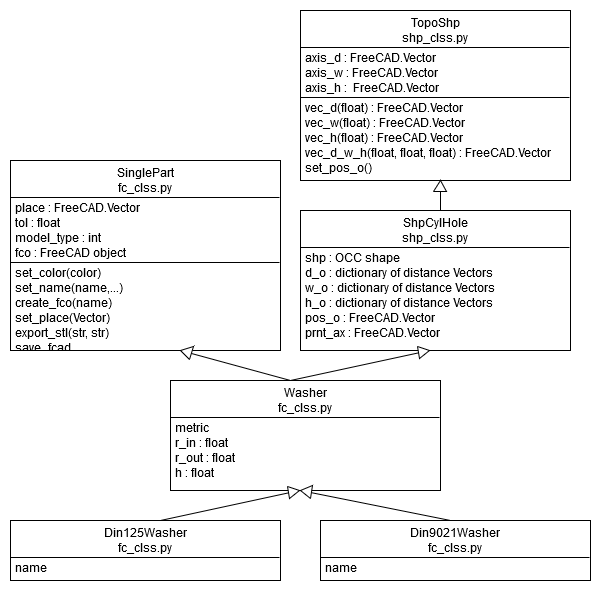
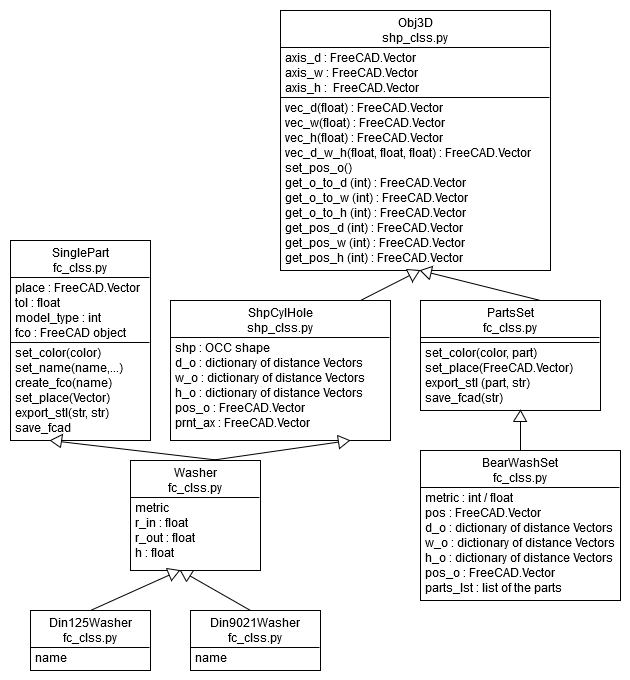
Change name of class: from TopoShp to Obj3D

Changed region(s): [[0.0, 0.0, 0.99, 1.0], [0.54, 0.9458, 0.6, 0.9763]]

diff --git a/shp_clss.py b/shp_clss.py
@@ -1,5 +1,5 @@
 # ----------------------------------------------------------------------------
-# -- TopoShp class and children
+# -- Obj3D class and children
 # ----------------------------------------------------------------------------
 # -- (c) Felipe Machado
 # -- Area of Electronic Technology. Rey Juan Carlos University (urjc.es)
@@ -35,18 +35,24 @@ logging.basicConfig(level=logging.DEBUG)
 logger = logging.getLogger(__name__)
 
 
-class TopoShp (object):
-    """ This a the object that contains an OpenCasCade Topological Shape
-    https://www.freecadweb.org/wiki/Part_Module#Explaining_the_concepts
+class Obj3D (object):
+    """ This is the the basic class, that provides reference axes and 
+    methods to get positions
 
-    It is created because it contains methods and attributes to operate with it
-    The class SinglePart is a child of this one, because they also contain a
-    an OpenCasCade Topological Shape. So they will inherit all their properties
+    It is the parent class of other classes, no instantiation of this class
 
-    These object have their own coordinate axes:
+    These objects have their own coordinate axes:
     axis_d: depth
     axis_w: width
     axis_h: height
+
+    They have an origin point pos_o (created in a child class)
+    and have different interesting points
+    d_o
+    w_o
+    h_o
+
+    and methods to get to them
 
     """
     def __init__(self, axis_d = None, axis_w = None, axis_h = None):
@@ -290,7 +296,7 @@ class TopoShp (object):
 
 
 
-class ShpCyl (TopoShp):
+class ShpCyl (Obj3D):
     """
     Creates a shape of a cylinder
     Makes a cylinder in any position and direction, with optional extra
@@ -453,7 +459,7 @@ class ShpCyl (TopoShp):
                  pos_h = 0, pos_d = 0, pos_w = 0,
                  xtr_top=0, xtr_bot=0, xtr_r=0, pos = V0):
 
-        TopoShp.__init__(self, axis_d, axis_w, axis_h)
+        Obj3D.__init__(self, axis_d, axis_w, axis_h)
 
         # save the arguments as attributes:
         frame = inspect.currentframe()
@@ -463,7 +469,7 @@ class ShpCyl (TopoShp):
                 setattr(self, i, values[i])
 
         # vectors from o (orig) along axis_h, to the pos_h points
-        # h_o is a dictionary created in TopoShp.__init__
+        # h_o is a dictionary created in Obj3D.__init__
         self.h_o[0] =  self.vec_h(h/2. + xtr_bot)
         self.h_o[1] =  self.vec_h(xtr_bot)
         # pos_h = 0 is at the center
@@ -505,7 +511,7 @@ class ShpCyl (TopoShp):
 
 
 
-class ShpCylHole (TopoShp):
+class ShpCylHole (Obj3D):
     """
     Creates a shape of a hollow cylinder
     Similar to fcfun shp_cylhole_gen, but creates the object with the useful
@@ -659,7 +665,7 @@ class ShpCylHole (TopoShp):
                  pos = V0):
 
 
-        TopoShp.__init__(self, axis_d, axis_w, axis_h)
+        Obj3D.__init__(self, axis_d, axis_w, axis_h)
 
         # save the arguments as attributes:
         frame = inspect.currentframe()
@@ -669,7 +675,7 @@ class ShpCylHole (TopoShp):
                 setattr(self, i, values[i])
 
         # vectors from o (orig) along axis_h, to the pos_h points
-        # h_o is a dictionary created in TopoShp.__init__
+        # h_o is a dictionary created in Obj3D.__init__
         self.h_o[0] =  self.vec_h(h/2. + xtr_bot)
         self.h_o[1] =  self.vec_h(xtr_bot)
         # pos_h = 0 is at the center

diff --git a/fc_clss.py b/fc_clss.py
@@ -1,5 +1,5 @@
 # ----------------------------------------------------------------------------
-# -- Classes for FreeCAD pieces, parts or shapes
+# -- Classes for FreeCAD pieces, parts, part sets
 # ----------------------------------------------------------------------------
 # -- (c) Felipe Machado
 # -- Area of Electronic Technology. Rey Juan Carlos University (urjc.es)
@@ -245,7 +245,7 @@ class SinglePart (object):
 
 # Possible names: Parts     , Pieces,         Elements,
 #                      Group        Ensemble,         Set, 
-class PartsSet (shp_clss.TopoShp):
+class PartsSet (shp_clss.Obj3D):
     """
     This is a 3D model that has a set of parts (SinglePart or others)
     
@@ -273,7 +273,7 @@ class PartsSet (shp_clss.TopoShp):
         # bring the active document
         self.doc = FreeCAD.ActiveDocument
 
-        shp_clss.TopoShp.__init__(self, axis_d, axis_w, axis_h)
+        shp_clss.Obj3D.__init__(self, axis_d, axis_w, axis_h)
 
         self.parts_lst = [] # list of all the parts (SinglePart, ...)
 
@@ -708,13 +708,8 @@ class BearWashSet (PartsSet):
 
     Parameters:
     -----------
-    holcyl_list : list 
-    r_out : float
-        external (outside) radius
-    r_in : float
-        internal radius
-    h : float
-        height
+    metric : int
+        Metric (diameter) of the bolt that holds the set
     axis_h : FreeCAD.Vector
         vector along the cylinder height
     pos_h : int
@@ -843,7 +838,7 @@ class BearWashSet (PartsSet):
             self.bear_h      = self.bear_dict['t'] # height (thickness)
             self.bear_r_out  = self.bear_dict['do']/2.
             # total height:
-            self.tot_h = 2 * (lwash_h + rwash_h) + bear_h
+            self.tot_h = 2 * (self.lwash_h + self.rwash_h) + self.bear_h
 
             # pos_h/d/w = 0 are at the center
             self.h0_cen = 1
@@ -852,7 +847,7 @@ class BearWashSet (PartsSet):
 
             # the origin (pos_o) is at the base
             # vectors from o (orig) along axis_h, to the pos_h points
-            # h_o is a dictionary created in TopoShp.__init__
+            # h_o is a dictionary created in Obj3D.__init__
             self.h_o[0] = self.vec_h(  self.bear_h/2.
                                      + self.rwash_h
                                      + self.lwash_h)
